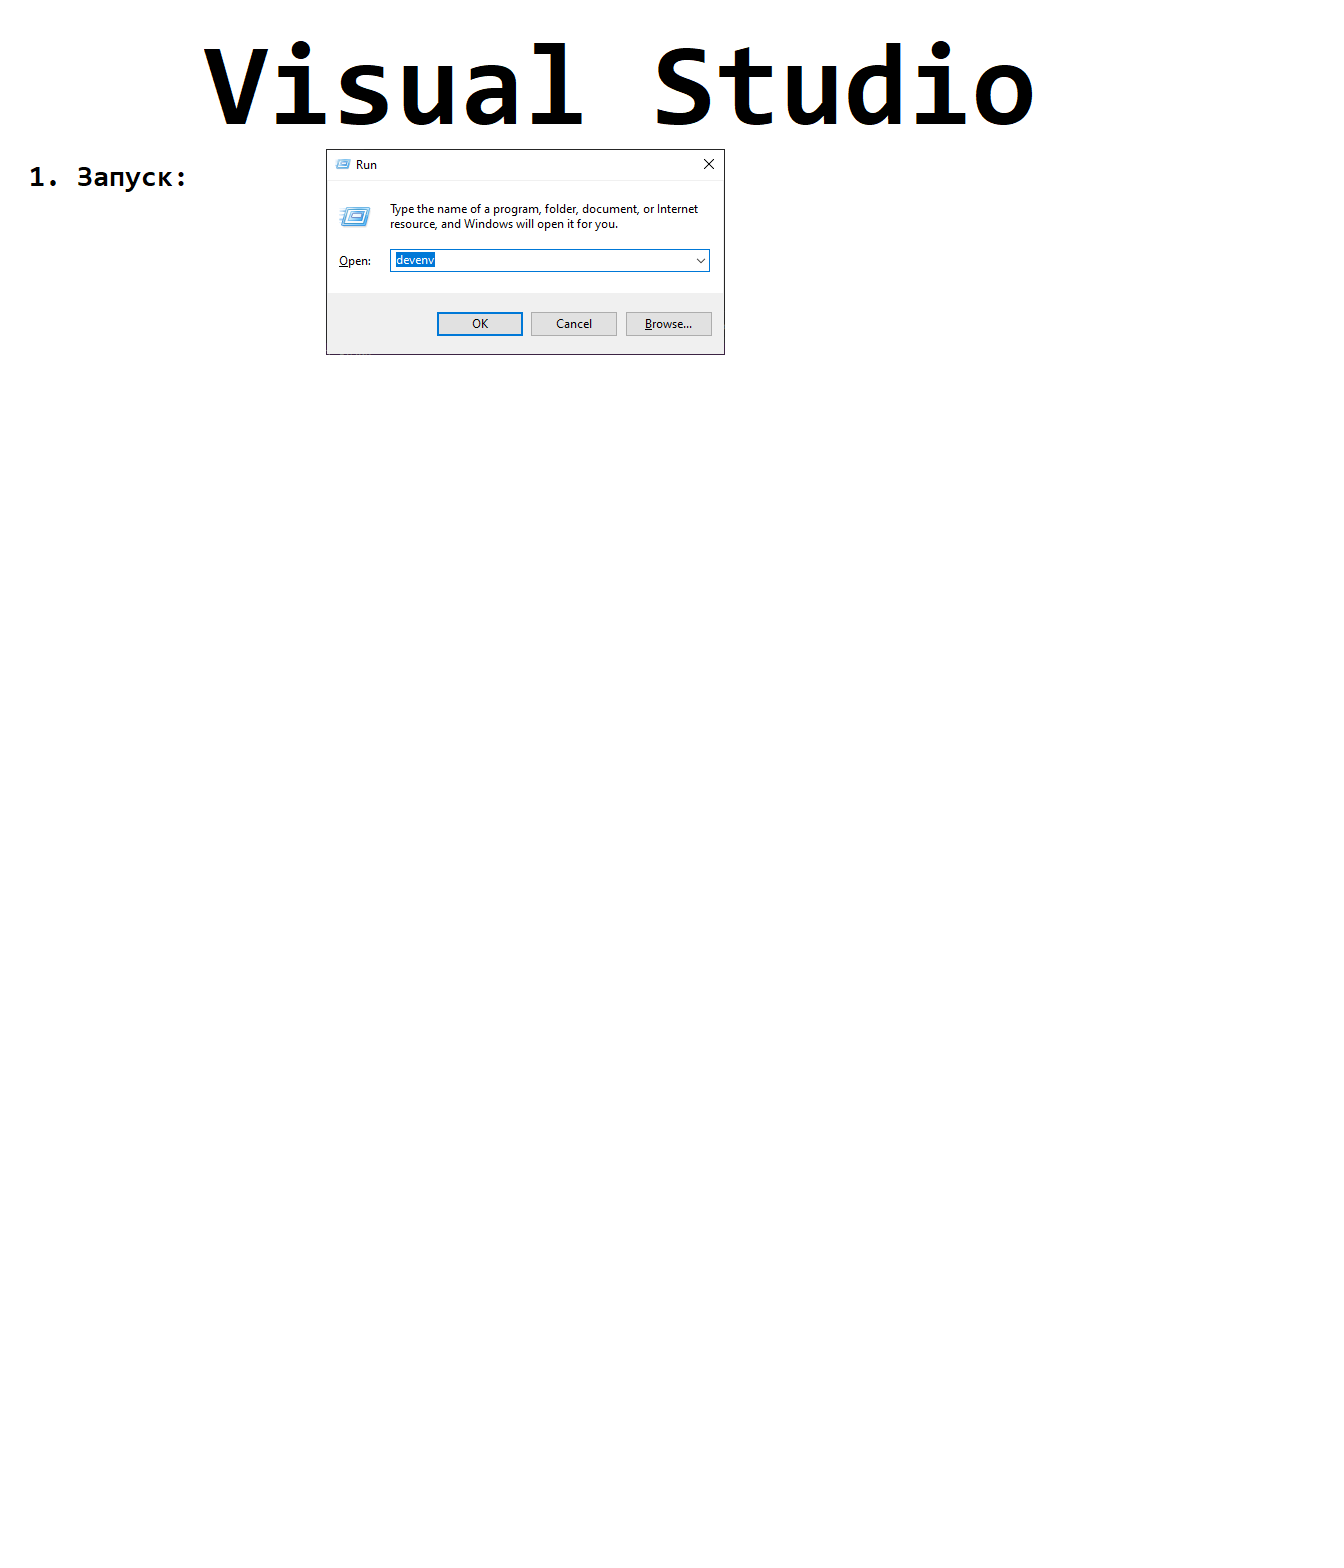
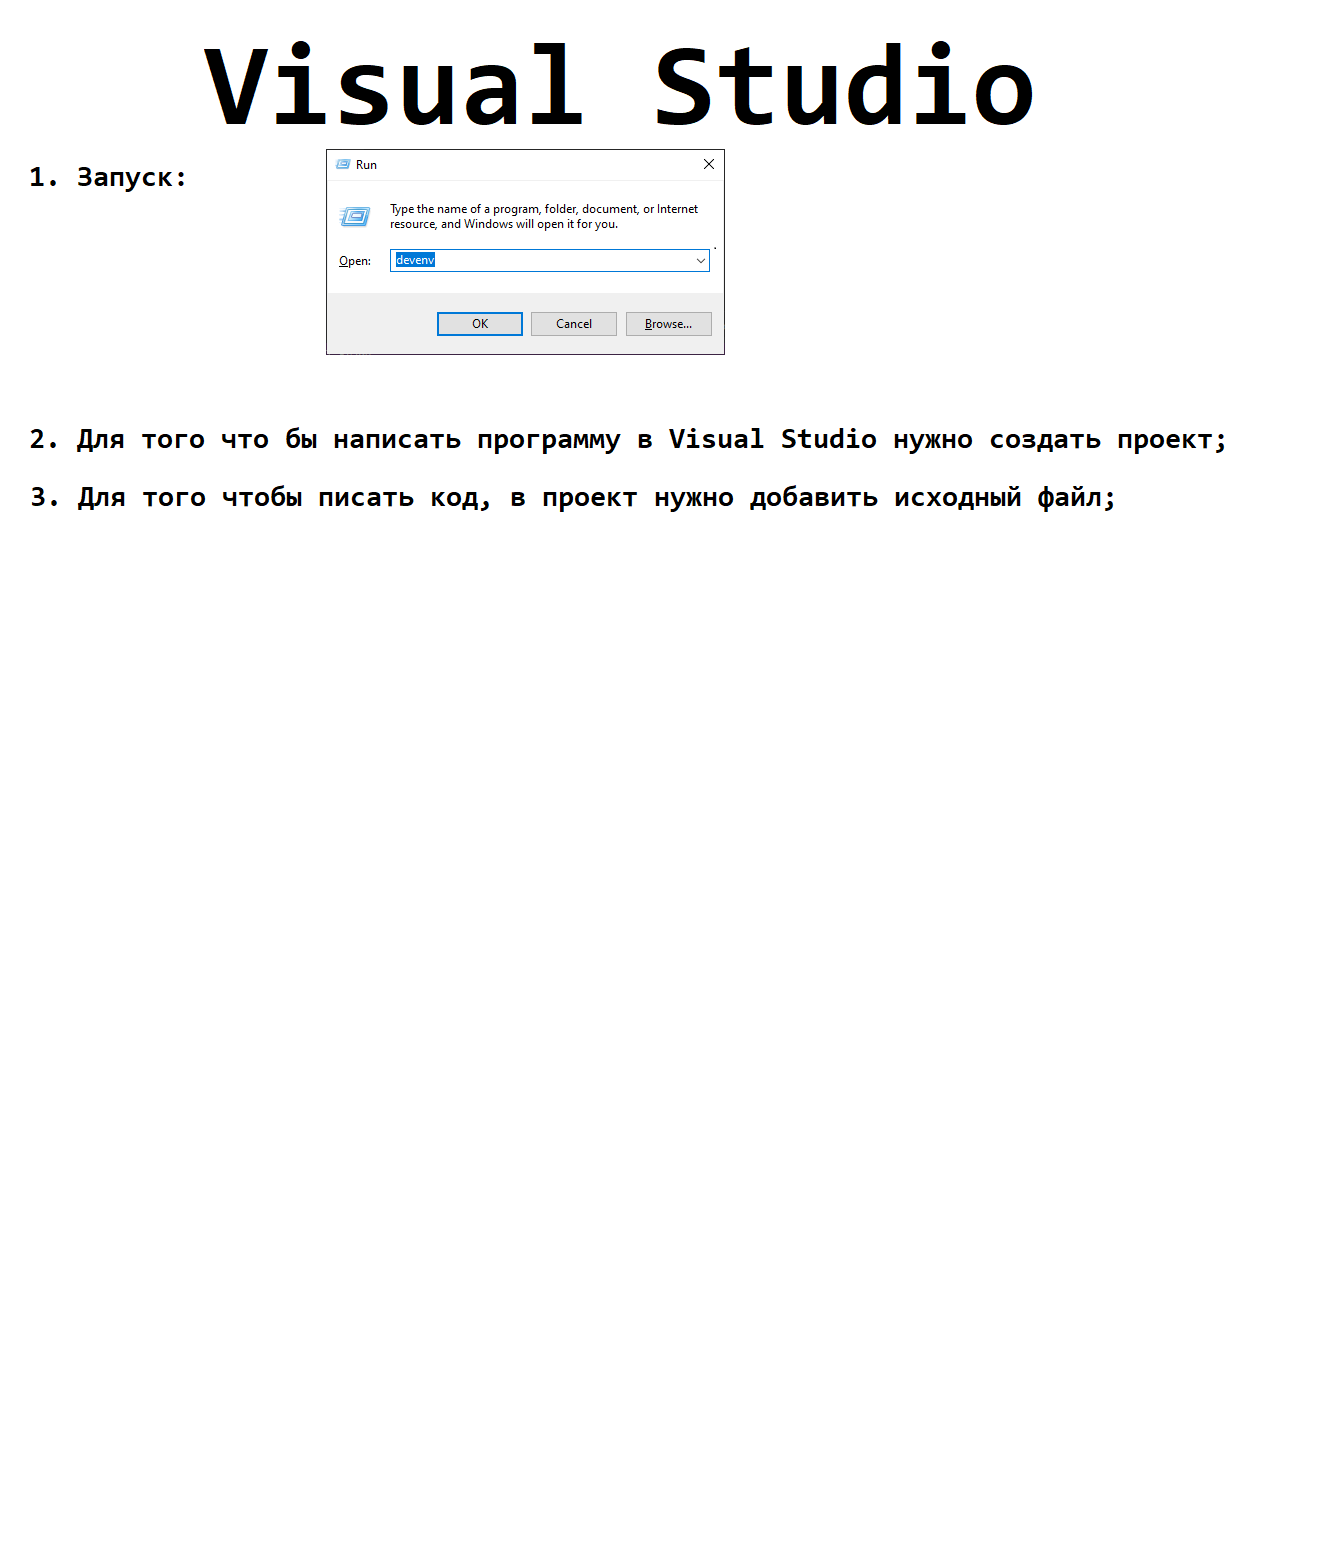
Structure of a Program

diff --git a/Hello/Hello/main.cpp b/Hello/Hello/main.cpp
@@ -1,0 +1,56 @@
+#include<iostream>
+using namespace std;
+
+void main()
+{
+	setlocale(LC_ALL, "Russian");
+	cout << "\t\t\t\t\t\tHello World!\n";
+	cout << "Привет Мир!";
+	//Escape-последовательности
+}
+
+//Ctrl+F7 - Компиляция
+//Ctrl+F5 - Запуск
+
+/*
+----------------------------------------
+#include<iostream>
+# - показывает что #include - это директива.
+Директива - это указание компилятору на выполнение некоторых действий.
+Директива #include (включить, подключить) указывает компилятору на то,
+что к нашему исходному файлу нужно подключить другой файл, в данном случае <iostream>
+При компиляции на место директивы #include 
+происходит встраивание содержимого другого файла в наш файл.
+
+Библиотека <iostream> содержит потоки ввода/вывода cin/cout 
+для ввода с клавиатуры и вывода на экран.
+
+Имя другог файла может быть указано в <> или ""
+<> - компилятор будет искать файл в системных каталогах Visual Studio
+"" - компилятор будет искать файл сначала в каталоге с проектом, 
+	 а потом в системных каталогах Visual Studio
+----------------------------------------
+using namespace std;	
+Говорит компилятору использовать пространство имен 'std'
+В этом именном пространстве объявлены потоки cin/cout.
+Пространства имен нужны для повторного использования имен.
+Именные пространства учень удобно сравнивать с каталогами (папками).
+----------------------------------------
+void main()
+main() - это главная функция, которая является точкой входа, 
+		 поскольку с нее начинается выполнение любой программы.
+Фукция main() ОБЯЗАТЕЛЬНО ДОЛЖНА БЫТЬ В ЛЮБОМ ПРОЕКТЕ, НО ТОЛЬКО ОДНА,
+в противном случае возникают ошибки на этапе компоновки.
+
+() - подказывают что main() - это функция
+{} - показывают тело и область видимости функции main()
+void (Пустота) - показывает что функция main() ничего НЕ возвращает по завершении.
+----------------------------------------
+cout (Console Out) - поток вывода на экран. Выводит значения в окно консоли.
+cout может выводить сколько угодно значений, при этом они разделяются <<;
+<< - оператор перенаправления в поток, направляет значения в поток 'cout';
+"Hello World" - это строковая константа.
+Строковая константа - это последовательность символов, заключенная в ""
+; - признак конца выражения, так же как . является признаком конца предложения в письенной речи.
+----------------------------------------
+*/

diff --git a/Hello/Hello/Source.cpp b/Hello/Hello/Source.cpp
@@ -1,0 +1,7 @@
+#include<iostream>
+using namespace std;
+
+//void main()	//В одном не может быть больше одной функции main()
+//{
+//	cout << 2 + 2 << endl;
+//}
